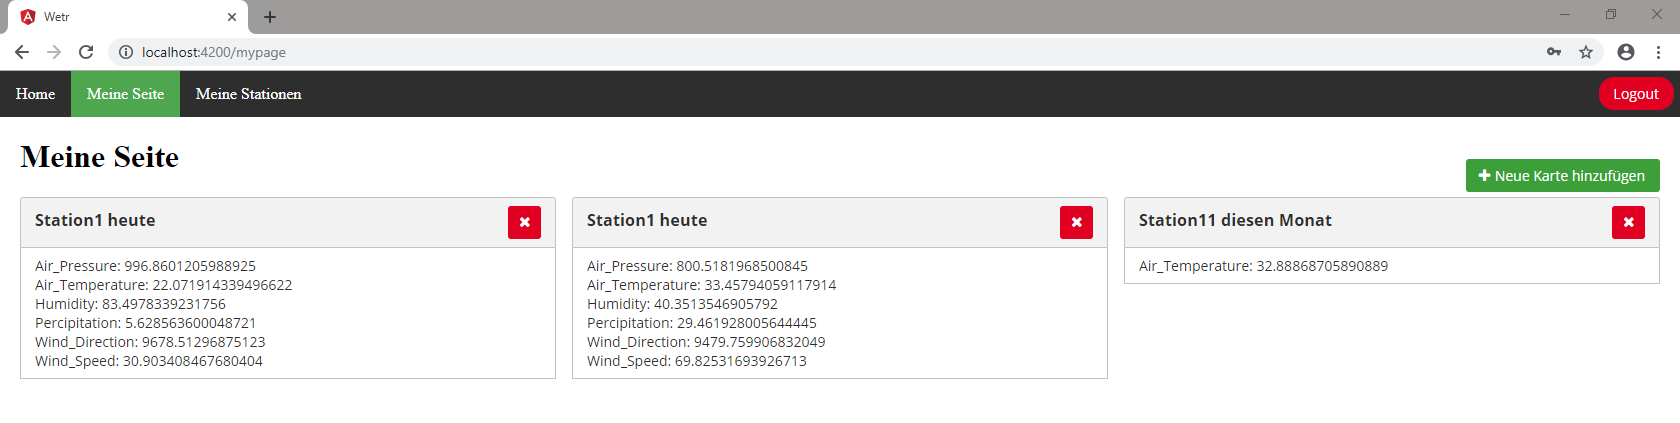
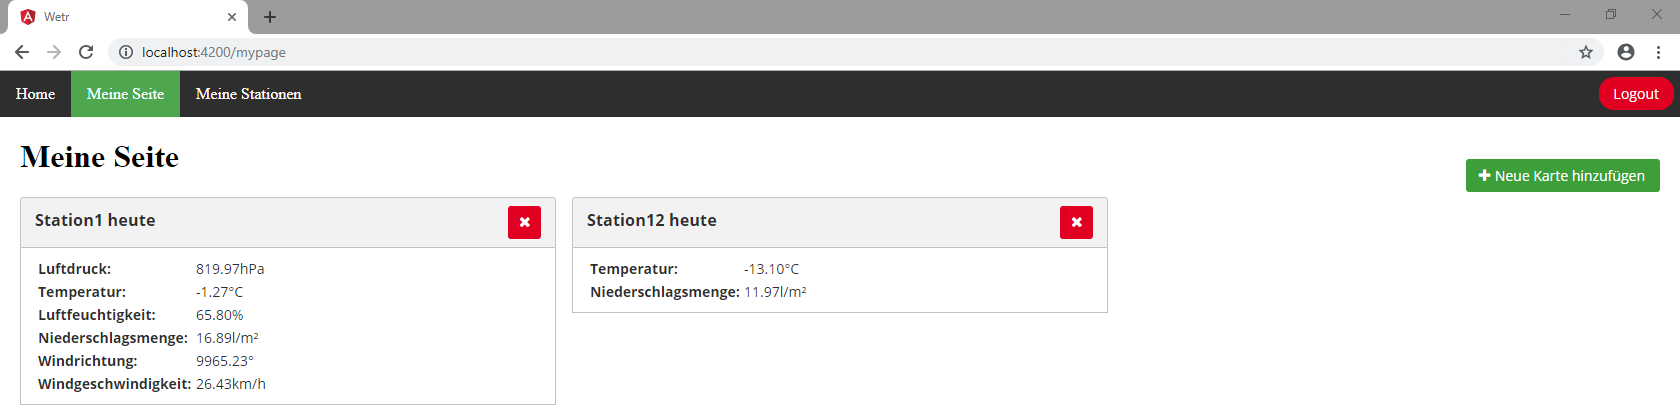
Improve preference cards

diff --git a/src/app/station-report/station-report.component.ts b/src/app/station-report/station-report.component.ts
@@ -4,6 +4,7 @@ import { Station, MeasurementType, MeasurementClient, Measurement, GetMeasuremen
 interface typeValue {
   type: string;
   value: Number;
+  unit: string;
 }
 
 @Component({
@@ -31,36 +32,43 @@ export class StationReportComponent implements OnInit {
     //unfortunately, this has to be mocked because the calls to the api yield no results
 
     var generatedValue: Number;
+    var typeLabel: string;
     switch(type.Type){
       case("Air_Pressure"): {
         generatedValue = this.getRandomArbitrary(650, 1020);
+        typeLabel = "Luftdruck";
         break;
       }
       case("Air_Temperature"): {
         generatedValue = this.getRandomArbitrary(-20, 35);
+        typeLabel = "Temperatur";
         break;
       }
       case("Humidity"): {
         generatedValue = this.getRandomArbitrary(0, 100);
+        typeLabel = "Luftfeuchtigkeit";
         break;
       }
       case("Percipitation"): {
         generatedValue = this.getRandomArbitrary(0, 35);
+        typeLabel = "Niederschlagsmenge";
         break;
       }
       case("Wind_Direction"): {
         generatedValue = this.getRandomArbitrary(9000, 10000);
+        typeLabel = "Windrichtung";
         break;
       }
       case("Wind_Speed"): {
         generatedValue = this.getRandomArbitrary(0, 100);
+        typeLabel = "Windgeschwindigkeit";
         break;
       }
       default: {
         generatedValue = 0;
       }
     }
-    this.displayData.push({type: type.Type, value: generatedValue});
+    this.displayData.push({type: typeLabel, value: generatedValue, unit: type.Unit});
   }
 
   getRandomArbitrary(min, max) {

diff --git a/src/app/station-report/station-report.component.html b/src/app/station-report/station-report.component.html
@@ -1,3 +1,11 @@
-<div *ngFor="let instance of displayData">
-  {{instance.type}}: {{instance.value}}
-</div>
+<table>
+  <tr *ngFor="let instance of displayData">
+      <td class="type">
+          {{instance.type}}:
+      </td>
+      <td>
+          {{instance.value.toFixed(2)}}{{instance.unit}}
+      </td>
+  </tr>
+</table>
+<!-- {{instance.type}}: {{instance.value.toFixed(2)}}{{instance.unit}} -->

diff --git a/src/app/station-report/station-report.component.css b/src/app/station-report/station-report.component.css
@@ -1,0 +1,3 @@
+.type {
+    font-weight: bold;
+}
